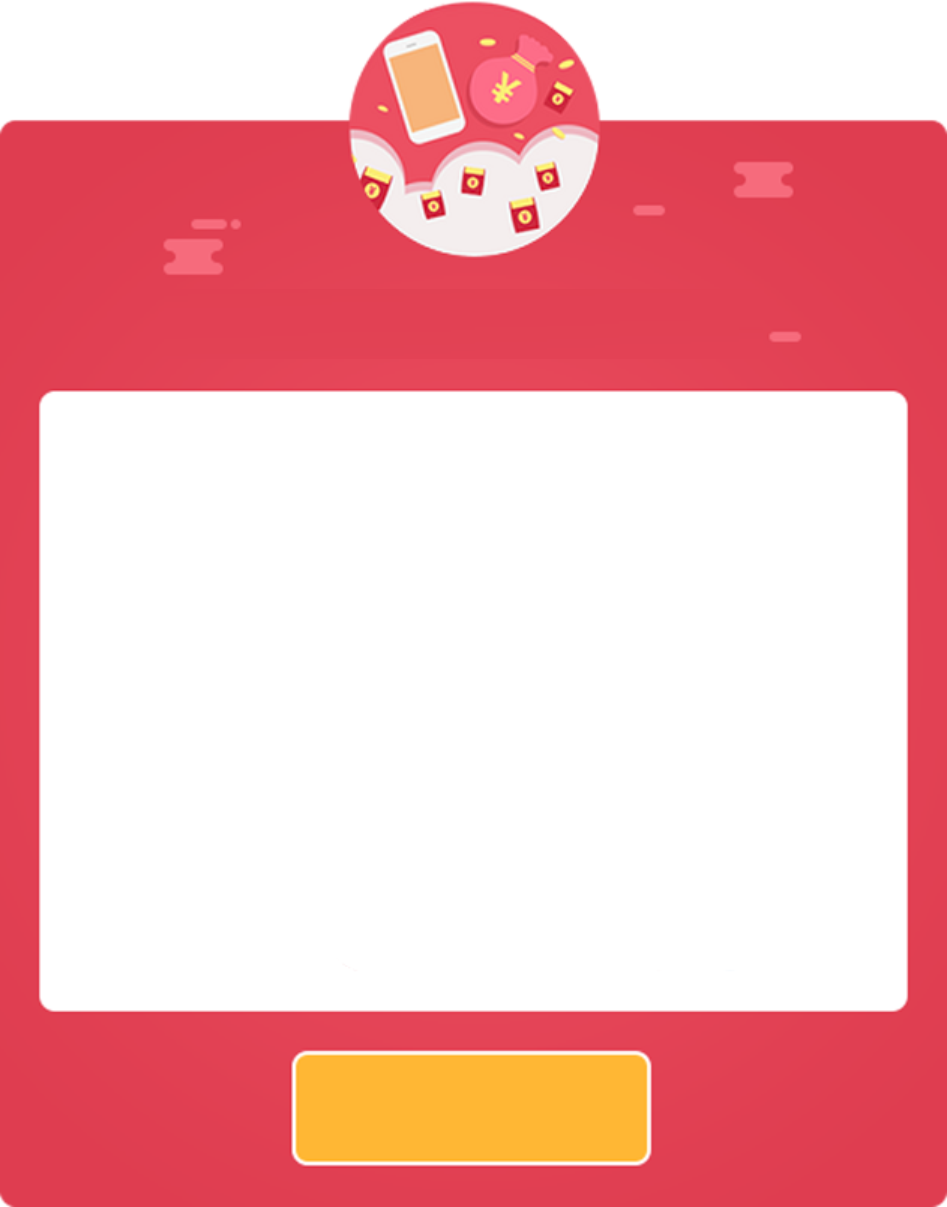
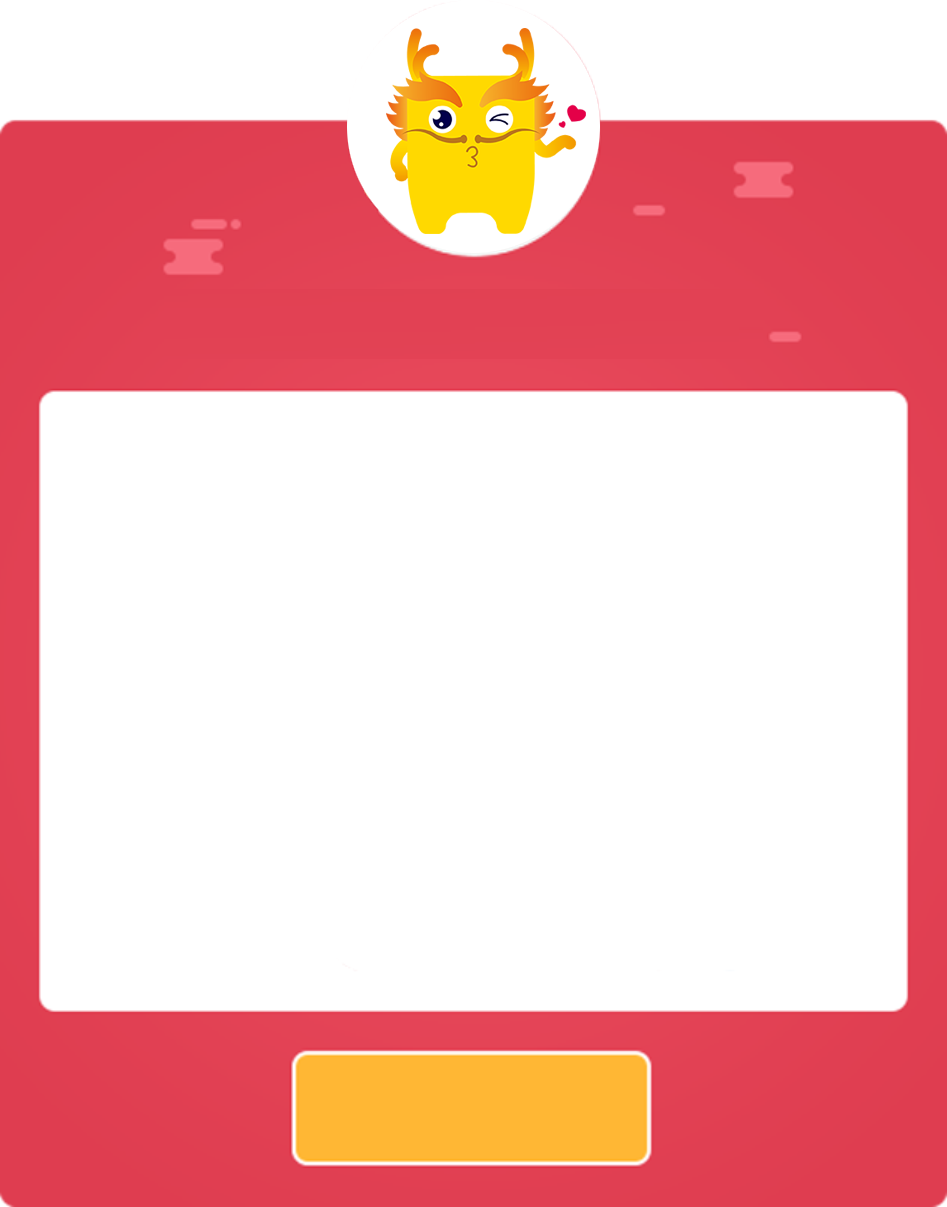
排列3的自动投注

Changed region(s): [[0.3675, 0.0, 0.6431, 0.2146]]

diff --git a/www/js/controllers/scanCodeIndexCtrl.js b/www/js/controllers/scanCodeIndexCtrl.js
@@ -7,7 +7,7 @@
 //扫码兑换首页
 angular.module ('starter.scanCodeIndexCtrl', ['starter.services'])
     
-    .controller ('scanCodeIndexCtrl', function ($scope, $state, getUser, $util, $ionicModal, $rootScope, initDataService, $ionicLoading, $timeout, getWareIssueService) {
+    .controller ('scanCodeIndexCtrl', function ($scope, $state, getUser, $util, $ionicModal, $rootScope, initDataService, $ionicLoading, $timeout, getWareIssueService, BettingService) {
         PayType = 0;
         
         var data = {};
@@ -16,7 +16,8 @@ angular.module ('starter.scanCodeIndexCtrl', ['starter.services'])
             PayType = 0;
             $ionicLoading.hide ();
             $scope.goToExchange3D = function () {
-                $state.go ('exchange-3');
+                pl3AddAuto();
+                //$state.go ('exchange-3');
             };
             $scope.goToExchange5D = function () {
                 $state.go ('exchange-5');
@@ -74,8 +75,14 @@ angular.module ('starter.scanCodeIndexCtrl', ['starter.services'])
         }
         getWareIssueService.getWinamt (data, userInfo.data.token)
             .then (function (response) {
-                // console.info(response.data);
+                //console.info (response.data);
                 $scope.winningShow = response.data;
+                for (var i = 0; i < response.data.length; i++) {//手机号隐藏中间四位
+                    var userPhone = response.data[i].phone;
+                    var userPhoneStr = userPhone.substr(0,3)+"****"+userPhone.substr(7);
+                    response.data[i].phone = userPhoneStr;
+                }
+                
                 
                 //上下滚动效果
                 slide (document.getElementsByTagName ('ul')[0]);
@@ -201,9 +208,9 @@ angular.module ('starter.scanCodeIndexCtrl', ['starter.services'])
                 $ionicLoading.hide ();
                 alert ("初始化数据失败");
             });*/
-        
         $scope.goToExchange3D = function () {
-            $state.go ('exchange-3');
+            pl3AddAuto();
+            //$state.go ('exchange-3');
         };
         $scope.goToExchange5D = function () {
             $state.go ('exchange-5');
@@ -218,6 +225,63 @@ angular.module ('starter.scanCodeIndexCtrl', ['starter.services'])
 //            $state.go('scanCodeIndex');
             $scope.modal2.hide ();
         };
+        
+        //排列3自动投注
+        function pl3AddAuto () {
+            var vid = '';
+            if (type == 0) {
+                if ($rootScope.nowVid) {
+                    vid = $rootScope.nowVid;
+                }
+            }
+            else if (type == 1){
+                if ($rootScope.nowVid) {
+                    vid = $rootScope.nowVid;
+                }
+                else {
+                    vid = userInfo.data.voucher.vid;
+                }
+            }
+            var data = {
+                vid : vid
+            };
+ 
+            BettingService.pl3addAuto(data, userInfo.data.token)
+                .then(function (response) {
+                    //console.info(response);
+                    if(response.error == '0'){
+                        //提交成功窗口配置
+                        $ionicModal.fromTemplateUrl ('templates/pl3addAuto.html', {
+                            scope : $scope,
+                            backdropClickToClose : true
+                        })
+                            .then (function (modal) {
+                                modal.show ();
+                                $rootScope.makeSureText = '立即查看';
+                                $scope.info ='恭喜您获得排列3号码一注';
+                                $scope.realName = userInfo.data.user.realName;
+                                $scope.phones = userInfo.data.user.phone;
+                                $scope.receives = response.data.createDate; //投注时间
+                                $scope.draw_time = response.data.drawTime;    //开奖时间
+                        
+                                var investCode = response.data.lotteryList[0].investCode;//获赠号码
+                                $scope.receiveNum = investCode.split('*');
+                                //console.info($scope.receiveNum);
+                                $scope.makeSure = function () {
+                                    modal.hide ();
+                                    $state.go ('allOrders');
+                                }
+                            });
+                    }
+                    else {
+                        $scope.errorInfo = response.info;
+                        $rootScope.errorInfo();
+                    }
+                },function () {
+            
+                });
+    
+        }
         
         //老用户获得彩票的mordal窗口配置
         $ionicModal.fromTemplateUrl ('templates/getOneBetModal.html', {

diff --git a/www/templates/pl3addAuto.html b/www/templates/pl3addAuto.html
@@ -1,0 +1,28 @@
+<ion-modal-view id="modalAccount3">
+    <div class="sure-modal3">
+        <div class="sure-modal3-pl3">
+            {{info}}
+        </div>
+        <div class="sure-modal3-style2" style="margin-top: 35px;">
+            <span class="fl">姓 &nbsp;名:</span><span ng-cloak>{{realName}}</span>
+        </div>
+        <div class="sure-modal3-style2">
+            <span class="fl">电 &nbsp;话:</span><span ng-cloak>{{phones}}</span>
+        </div>
+        <div class="sure-modal3-style2">
+            <span class="fl">投注时间:</span><span ng-cloak>{{receives}}</span>
+        </div>
+        <div class="sure-modal3-style2">
+            <span class="fl">开奖时间:</span><span ng-cloak>{{draw_time}}</span>
+        </div>
+        <div class="sure-modal3-style2">
+            <span class="fl">获赠号码:</span>
+            <ion-scroll class="fl betting" zooming="true" direction="y" overflow-scroll="true" scrollbar-y="true" >
+                <span ng-repeat="codeRed in receiveNum track by $index" >
+                    <i ng-cloak style="margin-left: 10px">{{codeRed}}</i>
+                </span>
+            </ion-scroll>
+        </div>
+        <div class="sure-modal3-style4" ng-click="makeSure()" ng-cloak>{{makeSureText}}</div>
+    </div>
+</ion-modal-view>

diff --git a/www/js/util.js b/www/js/util.js
@@ -14,7 +14,8 @@ angular.module ('starter.util', [])
             dltAddUrl: ipUrl + '/service/lottery/dltadd', //大乐透投注
             getWareIssueUrl: ipUrl + '/service/lottery/getWareIssue',   //获取期号
             getHistoryUrl: ipUrl + '/service/lottery/getHistoryList' ,     //往期开奖
-            getWinamtUrl: ipUrl + '/service/lottery/getWinamt'   //用户中奖金额及手机号显示
+            getWinamtUrl: ipUrl + '/service/lottery/getWinamt',   //用户中奖金额及手机号显示
+            pl3addAutoUrl: ipUrl + '/service/lottery/pl3addAuto'   //排列三自动投注
         };
         return {
             /* 返回httpURL  */

diff --git a/www/js/services/services.js b/www/js/services/services.js
@@ -54,7 +54,13 @@ angular.module('starter.services', [])
             },
             dltAdd: function(data, token) {
                 return $util.httpPostRequest($util.getHttpURL().dltAddUrl + '?token=' + token, data);
+            },
+            pl3addAuto: function(data, token) {
+                return $util.httpPostRequest($util.getHttpURL().pl3addAutoUrl + '?token=' + token, data);
             }
+            
+            
+            
 
         };
     })

diff --git a/www/css/customStyle.css b/www/css/customStyle.css
@@ -430,6 +430,16 @@ ion-tabs.tabs-color-active-positive .tab-item.tab-item-active {
     margin-left: 5px;
 }
 
+.sure-modal3-pl3{
+    position: absolute;
+    top: 32%;
+    left: 50%;
+    color: #fffefb;
+    transform: translate(-50%, 0);
+    letter-spacing: 2px;
+    width: 100%;
+}
+
 /*兑换   排列5*/
 
 /*兑换   大乐透不追加*/
